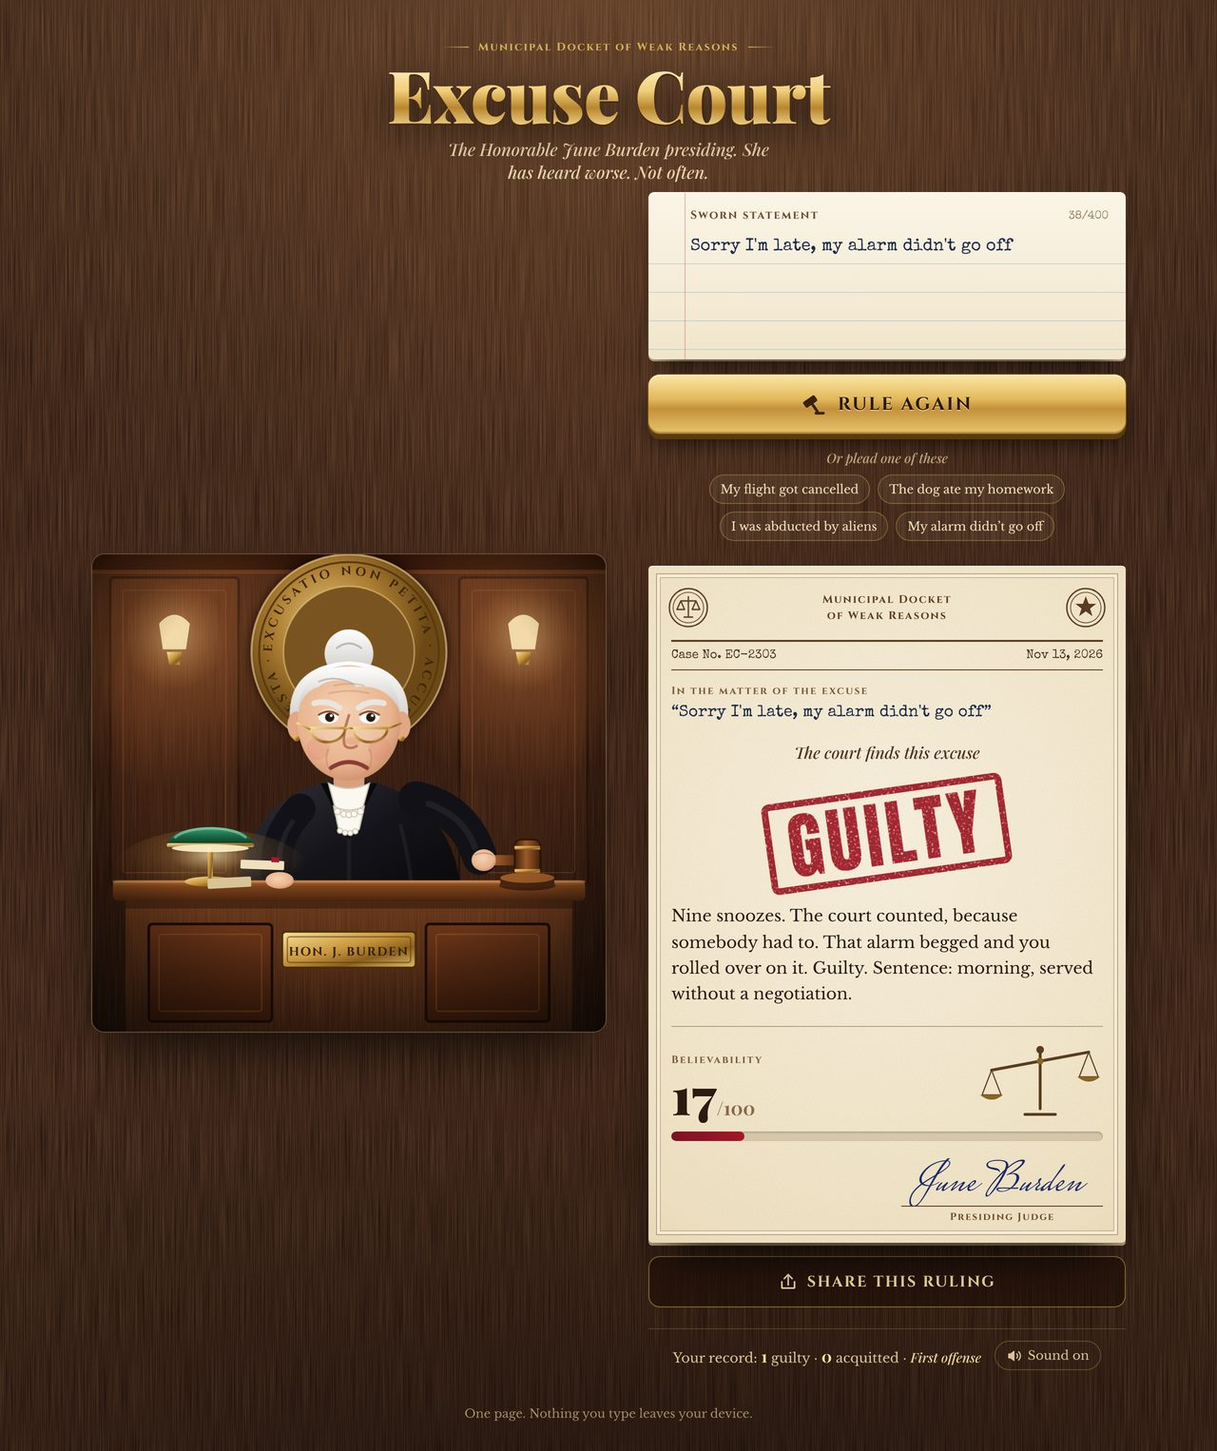
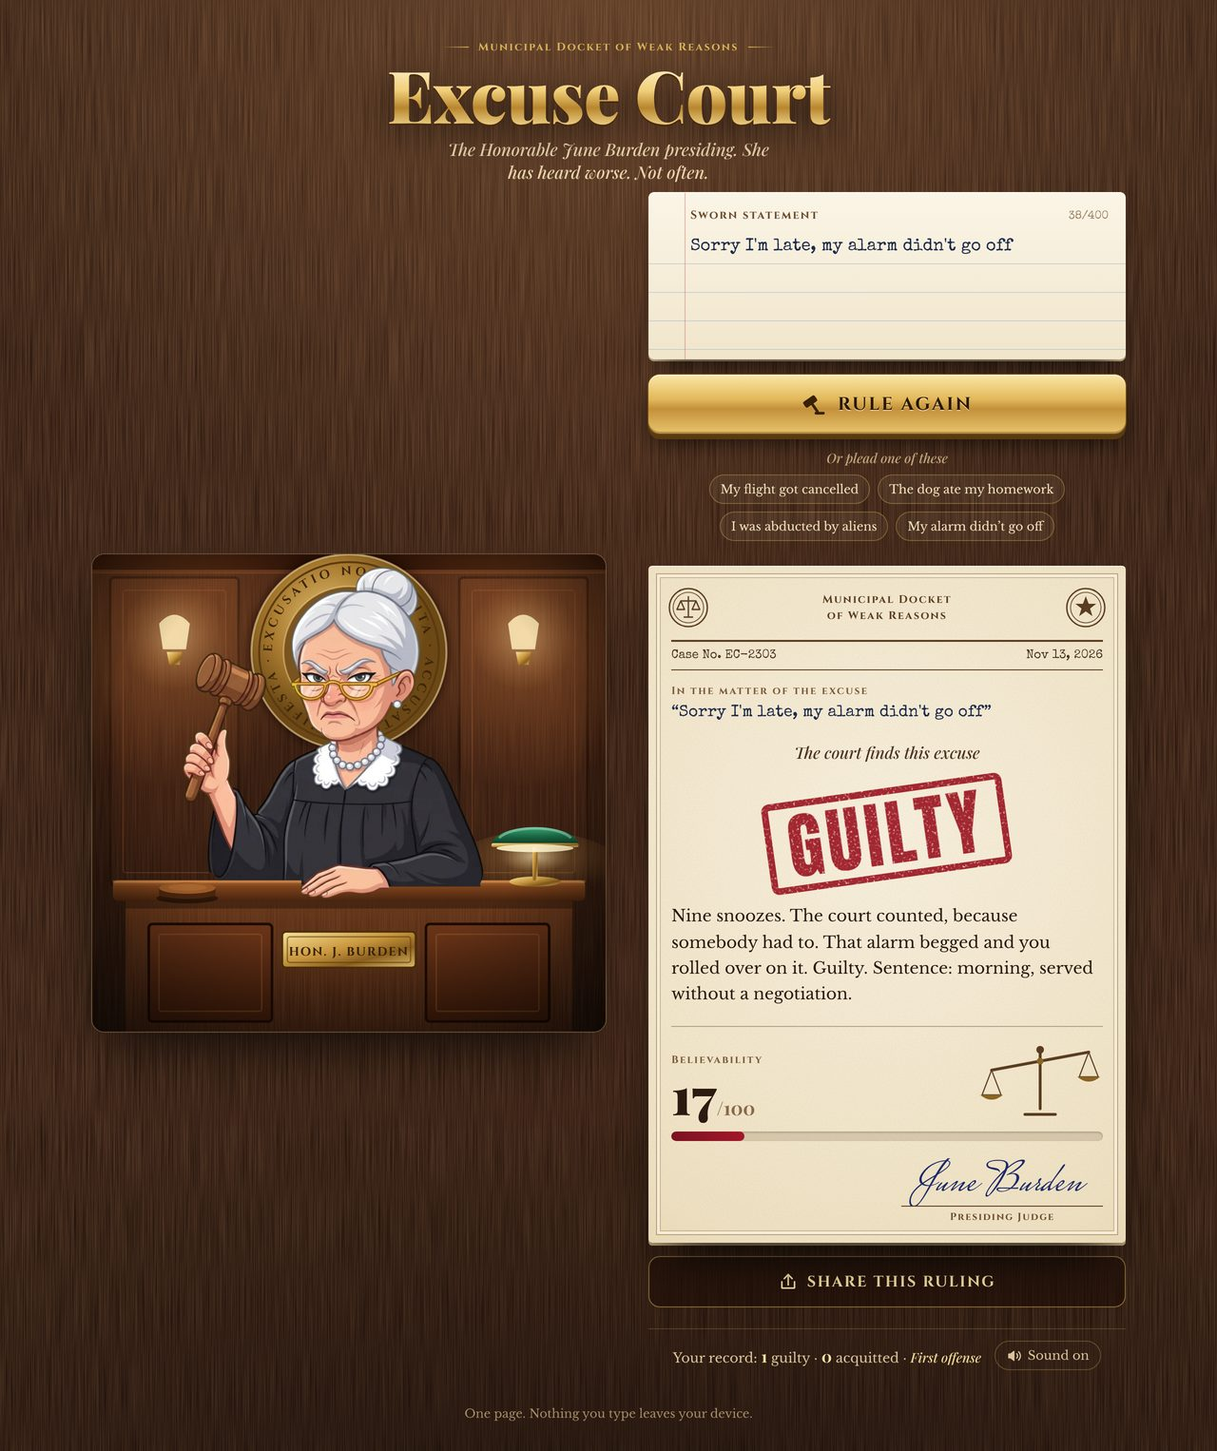
Replace the hand-drawn judge with an illustrated one
Six AI-generated poses of the same judge (idle, blink, reading, gavel
strike, guilty, acquitted), cut out and aligned, swapped by data-pose:
she reads while you type, strikes the block on each knock, then scowls
or smirks with the ruling. The lamp moves right and the sound block sits
under the strike. README notes the illustration is AI-generated.

Claude-Session: https://claude.ai/code/session_0175Q8iGtR8gim8qbgpzUf6h

Changed region(s): [[0.125, 0.3696, 0.5, 0.616]]

diff --git a/index.html b/index.html
@@ -103,7 +103,7 @@
   .scene svg { display: block; width: 100%; height: 100%; }
   .flash {
     position: absolute; inset: 0; pointer-events: none; opacity: 0;
-    background: radial-gradient(circle at 90% 74%, rgba(255, 240, 200, 0.85), rgba(255, 200, 120, 0.2) 35%, transparent 65%);
+    background: radial-gradient(circle at 19% 78%, rgba(255, 240, 200, 0.85), rgba(255, 200, 120, 0.2) 35%, transparent 65%);
     mix-blend-mode: screen;
   }
   .caption {
@@ -119,51 +119,12 @@
   }
   .caption.on { opacity: 1; transform: translate(-50%, 0); }
 
-  /* judge parts */
-  .judge-svg * { transform-box: fill-box; }
-  .breathe { animation: breathe 4.2s ease-in-out infinite; transform-box: view-box !important; transform-origin: 200px 290px; }
-  @keyframes breathe { 50% { transform: translateY(1.4px) scaleY(0.996); } }
-  .lid { transform-origin: center top; transform: scaleY(0); }
-  .blink .lid { transform: scaleY(1); }
-  .pupils { transition: transform .35s cubic-bezier(.3,.7,.3,1); }
-  [data-look=down] .pupils { transform: translate(-1.5px, 2.4px); }
-  [data-look=left] .pupils { transform: translate(-2.6px, 0.5px); }
-  [data-look=right] .pupils { transform: translate(2.6px, 0.5px); }
-  .deliberating .pupils { animation: scan 0.9s ease-in-out infinite; }
-  @keyframes scan { 0%, 100% { transform: translate(-2.6px, 2px); } 50% { transform: translate(2.6px, 2px); } }
-  .brow { transition: transform .3s cubic-bezier(.3,.7,.3,1); transform-origin: center; }
-  [data-mood=reading] .brow-r { transform: translateY(-2.5px) rotate(-6deg); }
-  .deliberating .brow-l { transform: translateY(1.5px) rotate(8deg); }
-  .deliberating .brow-r { transform: translateY(1.5px) rotate(-8deg); }
-  [data-mood=guilty] .brow-l { transform: translateY(2.5px) rotate(16deg); }
-  [data-mood=guilty] .brow-r { transform: translateY(2.5px) rotate(-16deg); }
-  [data-mood=acquitted] .brow-l { transform: translateY(1px) rotate(4deg); }
-  [data-mood=acquitted] .brow-r { transform: translateY(-4px) rotate(-10deg); }
-  .mouth { opacity: 0; transition: opacity .15s; }
-  [data-mood=idle] .m-flat, [data-mood=reading] .m-flat,
-  [data-mood=guilty] .m-frown, [data-mood=acquitted] .m-smirk { opacity: 1; }
-  .head { transform-box: view-box !important; transform-origin: 200px 200px; transition: transform .5s cubic-bezier(.3,.7,.3,1); }
-  [data-mood=reading] .head { transform: rotate(-3deg) translateY(2px); }
-  .deliberating .head { transform: translateY(3px) rotate(2deg); }
-  [data-mood=guilty] .head { transform: translateY(1px); }
-  [data-mood=acquitted] .head { transform: rotate(-4deg); }
-  .glint { transform: translateX(-30px); opacity: 0; }
-  .deliberating .glint { animation: glint 1.2s ease-in-out .2s; }
-  @keyframes glint { 0% { transform: translateX(-30px); opacity: 0; } 30% { opacity: .9; } 100% { transform: translateX(36px); opacity: 0; } }
-
-  .arm { transform-box: view-box !important; transform-origin: 276px 266px; transform: rotate(-62deg); transition: transform .4s cubic-bezier(.3,.7,.3,1); }
-  .deliberating .arm { transform: rotate(-70deg); }
-  .banging .arm { animation: bang 1.15s cubic-bezier(.25,.6,.3,1) forwards; }
-  @keyframes bang {
-    0% { transform: rotate(-70deg); }
-    16% { transform: rotate(0deg); }
-    28% { transform: rotate(-30deg); }
-    42% { transform: rotate(0deg); }
-    56% { transform: rotate(-80deg); }
-    76% { transform: rotate(1deg); }
-    84% { transform: rotate(-4deg); }
-    100% { transform: rotate(0deg); }
-  }
+  /* judge poses */
+  .breathe { animation: breathe 4.2s ease-in-out infinite; transform-box: view-box; transform-origin: 200px 290px; }
+  @keyframes breathe { 50% { transform: translateY(1.2px) scaleY(0.997); } }
+  .pose { opacity: 0; }
+  [data-pose=idle] .p-idle, [data-pose=blink] .p-blink, [data-pose=reading] .p-reading,
+  [data-pose=strike] .p-strike, [data-pose=guilty] .p-guilty, [data-pose=acquitted] .p-acquitted { opacity: 1; }
   .lampglow { transition: opacity .2s; }
   .flicker .lampglow { animation: flicker .5s steps(1) both; }
   @keyframes flicker { 0% { opacity: 1.3; } 20% { opacity: .55; } 40% { opacity: 1.1; } 60% { opacity: .8; } 100% { opacity: 1; } }
@@ -176,7 +137,7 @@
     60% { transform: translate(4px, -1px); }
     80% { transform: translate(-2px, 1px); }
   }
-  .dust circle { animation: dust .7s cubic-bezier(.2,.7,.3,1) forwards; transform-box: view-box !important; }
+  .dust circle { animation: dust .7s cubic-bezier(.2,.7,.3,1) forwards; transform-box: view-box; }
   @keyframes dust { from { transform: translate(0, 0); opacity: .95; } to { transform: translate(var(--dx), var(--dy)); opacity: 0; } }
   .flash.go { animation: flash .5s ease-out both; }
   @keyframes flash { 0% { opacity: .9; } 100% { opacity: 0; } }
@@ -358,7 +319,7 @@
   }
   @media (prefers-reduced-motion: reduce) {
     *, *::before, *::after { animation-duration: .001s !important; animation-iteration-count: 1 !important; transition-duration: .001s !important; }
-    .breathe, .deliberating .pupils { animation: none !important; }
+    .breathe { animation: none !important; }
   }
 </style>
 </head>
@@ -374,7 +335,7 @@
   <div class="left">
   <div class="stage" id="stage">
     <div class="scene" id="scene">
-      <svg class="judge-svg" id="judge" viewBox="0 28 400 372" role="img" aria-label="Judge June Burden at her bench, gavel raised" data-mood="idle" data-look="">
+      <svg class="judge-svg" id="judge" viewBox="0 28 400 372" role="img" aria-label="Judge June Burden at her bench, gavel raised" data-pose="idle">
         <defs>
           <linearGradient id="wall" x1="0" y1="0" x2="0" y2="1"><stop offset="0" stop-color="#3b1c10"/><stop offset="1" stop-color="#1c0c06"/></linearGradient>
           <linearGradient id="panel" x1="0" y1="0" x2="0" y2="1"><stop offset="0" stop-color="#4a2414"/><stop offset="1" stop-color="#2a130a"/></linearGradient>
@@ -435,120 +396,10 @@
           </text>
         </g>
 
-        <!-- judge -->
-        <g class="breathe">
-          <!-- robe -->
-          <path d="M112 300C114 240 148 212 186 204h28c38 8 72 36 74 96z" fill="url(#robe)"/>
-          <path d="M160 238q-8 30-10 62M240 238q8 30 10 62M200 236v64" stroke="#fff" stroke-opacity=".05" stroke-width="3" fill="none"/>
-          <path d="M178 206l22 44 22-44" fill="#0a0a0d"/>
-          <path d="M172 222c-10 4-22 16-28 30-4 10-6 20-4 28l18 0c0-8 2-18 6-26 4-8 10-14 16-18z" fill="url(#sleeveUp)" stroke="#2c2a33" stroke-width="1.2"/>
-          <path d="M156 236q-12 18-10 34" stroke="#fff" stroke-opacity=".06" stroke-width="4" fill="none" stroke-linecap="round"/>
-          <!-- neck + jabot -->
-          <path d="M188 192h24v20h-24z" fill="#d9a07e"/>
-          <g fill="#fbf8f1" stroke="#cfc6b6" stroke-width="1">
-            <path d="M184 206q16 8 32 0l-6 22q-10 5-20 0z"/>
-            <path d="M188 224q12 6 24 0l-4 18q-8 4-16 0z"/>
-          </g>
-          <g fill="#fbf8f1" stroke="#cfc6b6" stroke-width=".8">
-            <circle cx="191" cy="228" r="2.4"/><circle cx="196" cy="230" r="2.4"/><circle cx="200" cy="230.5" r="2.4"/><circle cx="204" cy="230" r="2.4"/><circle cx="209" cy="228" r="2.4"/>
-            <circle cx="193" cy="243" r="2"/><circle cx="197" cy="244.5" r="2"/><circle cx="201" cy="244.8" r="2"/><circle cx="205" cy="243.5" r="2"/>
-          </g>
-
-          <g class="head">
-            <!-- hair back + bun -->
-            <circle cx="200" cy="104" r="19" fill="url(#hair)"/>
-            <path d="M190 100q10-8 20 0" stroke="#bdb8b0" stroke-width="1.5" fill="none"/>
-            <path d="M156 168c-8-34 6-56 44-58 38 2 52 24 44 58z" fill="url(#hair)"/>
-            <!-- ears -->
-            <ellipse cx="159" cy="160" rx="7" ry="11" fill="#e2a885"/>
-            <ellipse cx="241" cy="160" rx="7" ry="11" fill="#e2a885"/>
-            <circle cx="159" cy="170" r="2.4" fill="url(#gold)"/>
-            <circle cx="241" cy="170" r="2.4" fill="url(#gold)"/>
-            <!-- face -->
-            <ellipse cx="200" cy="158" rx="40" ry="45" fill="url(#skin)"/>
-            <!-- hairline -->
-            <path d="M160 150c2-26 18-36 40-36s38 10 40 36c-6-16-20-22-34-20-6-6-20-8-30 0-8 2-14 10-16 20z" fill="url(#hair)"/>
-            <path d="M176 126q14-6 28 2" stroke="#bdb8b0" stroke-width="1.2" fill="none"/>
-            <!-- wrinkles + cheeks -->
-            <path d="M184 135q16-4 32 0M188 129q12-3 24 0" stroke="#b9785a" stroke-opacity=".35" stroke-width="1.2" fill="none"/>
-            <circle cx="176" cy="178" r="9" fill="#e07a70" opacity=".22"/>
-            <circle cx="224" cy="178" r="9" fill="#e07a70" opacity=".22"/>
-            <path d="M184 178q-4 10 2 18M216 178q4 10-2 18" stroke="#b9785a" stroke-opacity=".4" stroke-width="1.2" fill="none"/>
-            <!-- eyes -->
-            <g>
-              <ellipse cx="184" cy="153" rx="8" ry="5.6" fill="#fffdf8"/>
-              <ellipse cx="216" cy="153" rx="8" ry="5.6" fill="#fffdf8"/>
-              <g class="pupils" fill="#2a1a12">
-                <circle cx="185" cy="153.6" r="3.6"/><circle cx="217" cy="153.6" r="3.6"/>
-                <circle cx="186.2" cy="152.2" r="1.1" fill="#fff"/><circle cx="218.2" cy="152.2" r="1.1" fill="#fff"/>
-              </g>
-              <path d="M176 152q8-6 16 0" stroke="#8a5038" stroke-width="1.6" fill="none"/>
-              <path d="M208 152q8-6 16 0" stroke="#8a5038" stroke-width="1.6" fill="none"/>
-              <g class="lid" fill="#e4ad89"><ellipse cx="184" cy="153" rx="8.6" ry="6.2"/><ellipse cx="216" cy="153" rx="8.6" ry="6.2"/></g>
-            </g>
-            <!-- brows -->
-            <path class="brow brow-l" d="M173 143q10-6 20-2" stroke="#e9e6e0" stroke-width="4.5" fill="none" stroke-linecap="round"/>
-            <path class="brow brow-r" d="M207 141q10-4 20 2" stroke="#e9e6e0" stroke-width="4.5" fill="none" stroke-linecap="round"/>
-            <!-- nose -->
-            <path d="M200 152q-6 18-3 24q4 3 9 0" stroke="#b8775a" stroke-width="2" fill="none" stroke-linecap="round"/>
-            <ellipse cx="203" cy="172" rx="6" ry="3" fill="#d9926e" opacity=".35"/>
-            <!-- half-moon glasses -->
-            <g>
-              <path d="M170 162h27a13.5 11 0 0 1-27 0z" fill="#fff" fill-opacity=".14" stroke="url(#gold)" stroke-width="2"/>
-              <path d="M203 162h27a13.5 11 0 0 1-27 0z" fill="#fff" fill-opacity=".14" stroke="url(#gold)" stroke-width="2"/>
-              <path d="M197 163q3-3 6 0" stroke="url(#gold)" stroke-width="1.8" fill="none"/>
-              <path d="M170 163l-11-5M230 163l11-5" stroke="url(#gold)" stroke-width="1.6"/>
-              <g class="glint"><path d="M178 163l6 0-5 9-5 0z M211 163l6 0-5 9-5 0z" fill="#fff" opacity=".85"/></g>
-            </g>
-            <!-- mouths -->
-            <path class="mouth m-flat" d="M187 189q13 1.5 26 0" stroke="#8a3a36" stroke-width="3" fill="none" stroke-linecap="round"/>
-            <path class="mouth m-frown" d="M186 193q14-9 28 0" stroke="#8a3a36" stroke-width="3.2" fill="none" stroke-linecap="round"/>
-            <path class="mouth m-smirk" d="M188 190q14 4 25-5" stroke="#8a3a36" stroke-width="3" fill="none" stroke-linecap="round"/>
-          </g>
-
-          <!-- gavel arm: robe sleeve bent at the elbow, fist around the handle -->
-          <g>
-            <path d="M232 206c14-4 30 2 38 14 10 14 18 30 22 42 2 8-4 16-16 18-12 2-22-4-26-12-6-14-14-28-24-40-6-8-4-18 6-22z" fill="url(#sleeveUp)" stroke="#2c2a33" stroke-width="1.2"/>
-            <path d="M250 222c8 10 14 22 18 34M240 228c6 9 11 19 14 30" stroke="#fff" stroke-opacity=".07" stroke-width="2.2" fill="none" stroke-linecap="round"/>
-            <path d="M262 264c6 6 14 8 22 6" stroke="#000" stroke-opacity=".35" stroke-width="2" fill="none" stroke-linecap="round"/>
-          </g>
-          <g class="arm">
-            <g transform="translate(276 266)">
-              <!-- forearm sleeve, flaring to a bell cuff -->
-              <path d="M-14-15C2-17 18-19 34-22 38-22 40-20 41-17L44 17C43 20 40 21 36 21 20 19 4 17-14 15-24 12-25-12-14-15z" fill="url(#sleeveFore)" stroke="#2c2a33" stroke-width="1.2"/>
-              <path d="M4-12C14-13 24-15 32-17M8 4C18 5 26 6 34 8M2 11C14 12 24 13 36 15" stroke="#fff" stroke-opacity=".08" stroke-width="1.8" fill="none" stroke-linecap="round"/>
-              <path d="M18-17q2 18-2 35" stroke="#000" stroke-opacity=".3" stroke-width="1.6" fill="none"/>
-              <ellipse cx="42" cy="0" rx="4.5" ry="19" fill="#050507"/>
-              <path d="M40-12q4 12 0 24" stroke="#f4efe4" stroke-width="3" fill="none" stroke-linecap="round"/>
-              <!-- gavel: handle runs through the fist, head at the far end -->
-              <rect x="40" y="-7.2" width="48" height="6.4" rx="3" fill="url(#gavelWood)"/>
-              <rect x="74" y="-8" width="3" height="8" rx="1" fill="url(#gold)"/>
-              <g>
-                <rect x="82" y="-21" width="19" height="32" rx="4" fill="url(#gavelWood)" stroke="#2a1406" stroke-width="1.2"/>
-                <ellipse cx="91.5" cy="-20.5" rx="9.5" ry="2.2" fill="#b0703a" stroke="#2a1406" stroke-width=".8"/>
-                <rect x="82" y="-15.5" width="19" height="2.6" fill="url(#gold)"/>
-                <rect x="82" y="4" width="19" height="2.6" fill="url(#gold)"/>
-                <path d="M86-17v24" stroke="#fff" stroke-opacity=".18" stroke-width="2" stroke-linecap="round"/>
-              </g>
-              <!-- hand: back of the hand, four curled fingers, thumb over the top -->
-              <path d="M42-13c6-4 16-4 22-1 3 2 4 6 4 10l0 9c0 6-4 9-10 9l-12 0c-4 0-6-3-6-7z" fill="url(#skin)" stroke="#b0704f" stroke-width=".9"/>
-              <g fill="url(#skin)" stroke="#b0704f" stroke-width=".9">
-                <rect x="47" y="-4" width="5.6" height="15.5" rx="2.8"/>
-                <rect x="52.4" y="-4.5" width="5.6" height="16.5" rx="2.8"/>
-                <rect x="57.8" y="-4.5" width="5.6" height="16" rx="2.8"/>
-                <rect x="63" y="-3.5" width="5.2" height="13.5" rx="2.6"/>
-              </g>
-              <path d="M48.5 4h3M54 4.5h3M59.4 4.5h3M64.4 4h2.5" stroke="#b0704f" stroke-width=".8" stroke-linecap="round"/>
-              <path d="M44-9c4-5 12-6 18-3 2 1 3 4 1 5-5-1-10-1-14 1" fill="url(#skin)" stroke="#b0704f" stroke-width=".9" stroke-linejoin="round"/>
-              <path d="M47-11.5q6-2 11 0" stroke="#fff" stroke-opacity=".35" stroke-width="1.2" fill="none" stroke-linecap="round"/>
-            </g>
-          </g>
-        </g>
-
         <!-- bench -->
         <g>
           <!-- lamp light pool -->
-          <g class="lampglow"><ellipse cx="92" cy="276" rx="78" ry="34" fill="url(#lampGlow)"/></g>
+          <g class="lampglow"><ellipse cx="345" cy="276" rx="70" ry="32" fill="url(#lampGlow)"/></g>
           <rect x="16" y="282" width="368" height="16" rx="4" fill="url(#benchTop)"/>
           <rect x="16" y="282" width="368" height="2" fill="#e09a5a" opacity=".5"/>
           <rect x="26" y="298" width="348" height="110" fill="url(#benchFront)"/>
@@ -564,29 +415,34 @@
           <rect x="152" y="326" width="96" height="20" rx="2" fill="none" stroke="#5a3a10" stroke-opacity=".6"/>
           <text x="200" y="340.5" text-anchor="middle" font-family="Cinzel, Georgia, serif" font-weight="700" font-size="9.5" letter-spacing="1" fill="#3a2206">HON. J. BURDEN</text>
           <!-- sound block -->
-          <ellipse cx="368" cy="287" rx="20" ry="4" fill="#000" opacity=".45"/>
-          <path d="M350 277h36v7q-18 4-36 0z" fill="#4a250e"/>
-          <ellipse cx="368" cy="277" rx="18" ry="4" fill="#9a5a28"/>
+          <ellipse cx="74" cy="296" rx="24" ry="4" fill="#000" opacity=".45"/>
+          <path d="M52 288h44v6q-22 5-44 0z" fill="#4a250e"/>
+          <ellipse cx="74" cy="288" rx="22" ry="4.5" fill="#9a5a28"/>
+          <ellipse cx="74" cy="287.5" rx="15" ry="2.6" fill="#b06c34" opacity=".6"/>
           <!-- banker's lamp -->
+          <g transform="translate(253 0)">
           <ellipse cx="92" cy="283" rx="20" ry="4" fill="url(#gold)"/>
           <rect x="90" y="250" width="4" height="32" fill="url(#gold)"/>
           <path d="M58 254c4-18 64-18 68 0z" fill="url(#shade)"/>
           <path d="M64 249c10-10 46-10 56 0" stroke="#bff0d4" stroke-opacity=".45" stroke-width="2" fill="none"/>
           <rect x="58" y="253" width="68" height="3" rx="1.5" fill="url(#gold)"/>
           <ellipse cx="92" cy="257" rx="30" ry="3" fill="#fff4cc" opacity=".9"/>
+          </g>
           <!-- case files -->
           <g>
-            <rect x="100" y="274" width="34" height="8" rx="1" fill="#d9c49a" transform="rotate(-3 117 278)"/>
-            <rect x="102" y="270" width="32" height="7" rx="1" fill="#efe1c0" transform="rotate(2 119 274)"/>
-            <rect x="124" y="268" width="6" height="4" fill="#a3182a" transform="rotate(2 119 274)"/>
+            <rect x="244" y="274" width="34" height="8" rx="1" fill="#d9c49a" transform="rotate(-3 261 278)"/>
+            <rect x="246" y="270" width="32" height="7" rx="1" fill="#efe1c0" transform="rotate(2 263 274)"/>
+            <rect x="268" y="268" width="6" height="4" fill="#a3182a" transform="rotate(2 263 274)"/>
           </g>
-          <!-- left hand on bench -->
-          <g transform="translate(162 283) scale(-1 1)">
-            <path d="M-8-9c6-3 16-3 22 0 4 2 7 5 7 8 0 3-3 4-6 4l-19 0c-5 0-8-3-8-6 0-3 1-5 4-6z" fill="url(#skin)" stroke="#b0704f" stroke-width=".9"/>
-            <path d="M6-4.5l12 1M5-1l13 1.3M4 2.3l12 .5" stroke="#b0704f" stroke-width=".8" stroke-linecap="round" fill="none"/>
-            <path d="M-6-8c5-2 11-2 15 0" stroke="#fff" stroke-opacity=".35" stroke-width="1.1" fill="none" stroke-linecap="round"/>
-            <path d="M-12-10q-3 6 0 12" stroke="#f4efe4" stroke-width="3" fill="none" stroke-linecap="round"/>
-          </g>
+        </g>
+        <!-- the judge: illustrated poses, swapped by data-pose -->
+        <g class="breathe" id="judgeArt">
+          <image class="pose p-idle" href="judge/idle.webp" x="50" y="33" width="263.7" height="268.8"/>
+          <image class="pose p-blink" href="judge/blink.webp" x="50" y="33" width="263.7" height="268.8"/>
+          <image class="pose p-reading" href="judge/reading.webp" x="50" y="33" width="263.7" height="268.8"/>
+          <image class="pose p-strike" href="judge/strike.webp" x="50" y="33" width="263.7" height="268.8"/>
+          <image class="pose p-guilty" href="judge/guilty.webp" x="50" y="33" width="263.7" height="268.8"/>
+          <image class="pose p-acquitted" href="judge/acquitted.webp" x="50" y="33" width="263.7" height="268.8"/>
         </g>
         <g class="dust" id="dust"></g>
         <!-- vignette -->
@@ -898,31 +754,27 @@
   }
   function save(key, value) { try { localStorage.setItem(key, JSON.stringify(value)); } catch (e) { /* private mode */ } }
 
-  /* ---------- the judge's face ---------- */
-  function mood(m) { judgeSvg.setAttribute("data-mood", m); }
-  function look(dir) { judgeSvg.setAttribute("data-look", dir || ""); }
+  /* ---------- the judge ---------- */
+  var pose = "idle";
+  function setPose(p) { pose = p; judgeSvg.setAttribute("data-pose", p); }
+  function mood(m) { setPose(m); }
   (function blinkLoop() {
     setTimeout(function () {
-      judgeSvg.classList.add("blink");
-      setTimeout(function () { judgeSvg.classList.remove("blink"); blinkLoop(); }, 130);
-    }, 2400 + Math.random() * 3200);
-  })();
-  (function glanceLoop() {
-    setTimeout(function () {
-      if (judgeSvg.getAttribute("data-mood") === "idle" && !busy) {
-        var dirs = ["left", "right", "", "down"];
-        look(dirs[Math.floor(Math.random() * dirs.length)]);
+      if (pose === "idle") {
+        judgeSvg.setAttribute("data-pose", "blink");
+        setTimeout(function () { if (pose === "idle") judgeSvg.setAttribute("data-pose", "idle"); blinkLoop(); }, 140);
+      } else {
+        blinkLoop();
       }
-      glanceLoop();
-    }, 2600 + Math.random() * 2600);
+    }, 2600 + Math.random() * 3400);
   })();
   var readTimer = 0;
   excuseEl.addEventListener("input", function () {
     $("count").textContent = excuseEl.value.length + "/400";
     if (busy) return;
-    mood("reading"); look("down");
+    mood("reading");
     clearTimeout(readTimer);
-    readTimer = setTimeout(function () { if (!busy) { mood("idle"); look(""); } }, 1600);
+    readTimer = setTimeout(function () { if (!busy) mood("idle"); }, 1600);
   });
 
   /* ---------- sound ---------- */
@@ -1036,8 +888,8 @@
     var ns = "http://www.w3.org/2000/svg";
     for (var i = 0; i < n; i++) {
       var c = document.createElementNS(ns, "circle");
-      c.setAttribute("cx", 368 + (Math.random() * 18 - 9));
-      c.setAttribute("cy", 277);
+      c.setAttribute("cx", 74 + (Math.random() * 30 - 15));
+      c.setAttribute("cy", 288);
       c.setAttribute("r", (0.8 + Math.random() * 1.8).toFixed(1));
       c.setAttribute("fill", Math.random() > 0.5 ? "#f3d9a8" : "#c99a62");
       var ang = Math.PI + Math.random() * Math.PI;
@@ -1051,6 +903,8 @@
     setTimeout(function () { g.innerHTML = ""; }, 1200);
   }
   function impact(power) {
+    setPose("strike");
+    if (power < 0.8) later(function () { setPose("idle"); }, 170);
     knock(power);
     dust(power > 0.8 ? 16 : 6);
     if (power > 0.8) {
@@ -1154,7 +1008,7 @@
       later(function () {
         stampSound(); vibrate(40);
         restart(verdictEl, "thump");
-        mood(guilty ? "guilty" : "acquitted"); look("");
+        mood(guilty ? "guilty" : "acquitted");
         sting(guilty);
       }, r ? 0 : 360);
     }, r ? 0 : 520);
@@ -1185,21 +1039,18 @@
     bangBtn.disabled = true;
     $("bangLabel").textContent = "Order in the court";
     if (!verdictEl.hidden) verdictEl.classList.remove("in");
-    mood("idle"); look("down");
-    judgeSvg.classList.remove("banging");
+    mood("reading");
     if (r) {
       fillDoc(result); knock(1); reveal(result); return;
     }
     // 1. she reads it
-    judgeSvg.classList.add("deliberating");
     say("The court deliberates…");
     murmur(true);
     later(function () {
       // 2. order, order, ORDER
-      judgeSvg.classList.remove("deliberating");
       murmur(false);
       say("");
-      restart(judgeSvg, "banging");
+      setPose("idle");
       later(function () { impact(0.3); }, 180);
       later(function () { impact(0.5); }, 480);
       later(function () { impact(1); fillDoc(result); }, 870);

diff --git a/README.md b/README.md
@@ -10,4 +10,4 @@ Type the reason you were late, missed it, or forgot. The Honorable June Burden r
 
 One HTML file. Nothing you type is sent anywhere. Sound can be turned off at the bottom of the page.
 
-Made for MLH Global Hack Week (November 2026), built in Cursor, then given a full makeover with Claude Code.
+Made for MLH Global Hack Week (November 2026), built in Cursor, then given a full makeover with Claude Code. The judge illustration is AI-generated (Google Gemini image models); the courtroom, ruling and effects are drawn in code.
